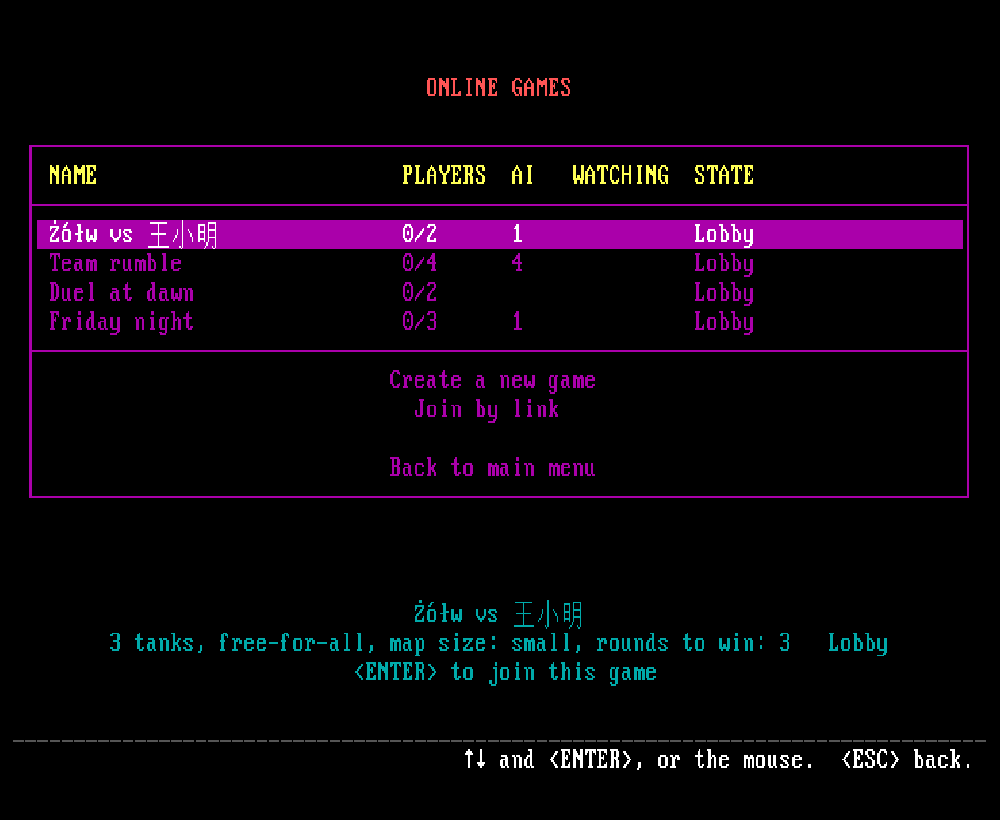
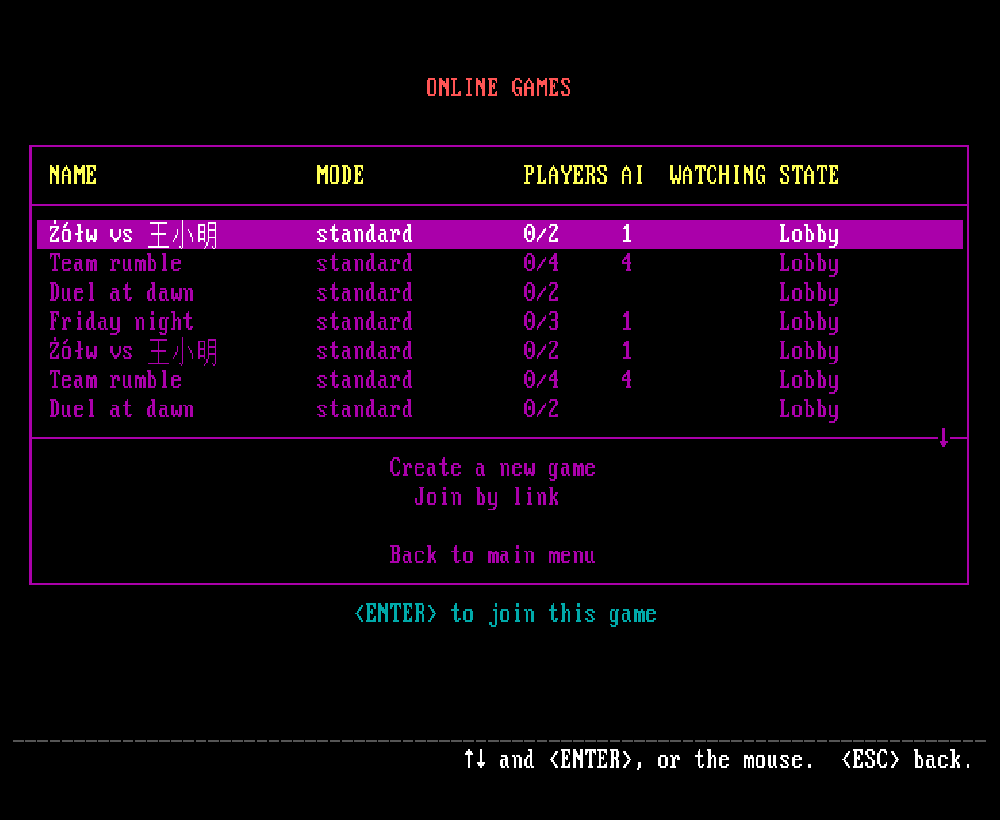
3.0.0: game modes
Eight game modes besides the standard game (gold rush, infection, survival,
king of the hill, shrinking world, capture the flag, base siege, deathmatch),
each with its own goal setting instead of rounds to win where it fits, its own
AI tactics, objects, score tags and statistics; the no-base-repairs modifier;
Skirmish (was vs computer); a MODE column and right-click watching in the games
list; Say: inside the chat box; one host at a time. See CHANGELOG.md.

diff --git a/CHANGELOG.md b/CHANGELOG.md
@@ -3,19 +3,39 @@
 All notable changes to Tunneler Online. Versions follow [semantic versioning](https://semver.org/);
 a release is made by pushing a version tag (see CONTRIBUTING.md).
 
-## Unreleased
+## 3.0.0
 
-- **Game modes** (vs computer and online, a new "Mode" setting): gold rush, infection, survival, king of
-  the hill, shrinking world, capture the flag, base siege and deathmatch - besides the standard game.
-  Each has its own rules, objects on the map (gold, flags, the zone, the safe area's edge), a score tag
-  beside the instrument panel, its score in the spectators' map table, its own computer-player tactics,
-  and an explanation on the Instructions page.
+**Game modes** - a new "Mode" setting (skirmish and online) besides the standard game, and a different
+game list / lobby; a 3.0 server and older pages or desktop apps can't play together.
+
+- **Eight game modes**, each with its own rules, objects on the map, a score tag beside the instrument
+  panel, its score in the spectators' map table and the statistics, its own computer-player tactics and an
+  explanation on the Instructions page:
+  - **Gold rush** - dig up gold and bring it to your base; a hit makes you drop one.
+  - **Infection** - tanks destroyed by the infected join them; the healthy win if one survives the time.
+  - **Survival** - all players together against waves of AI tanks, tougher with every wave.
+  - **King of the hill** - hold the zone in the middle of the map (destroyed tanks come back).
+  - **Shrinking world** - the safe area (an ellipse) closes in; outside it your shield melts.
+  - **Capture the flag** - bring the enemy's flag home while yours is at home.
+  - **Base siege** - shoot the enemy bases down; the last side with a base wins.
+  - **Deathmatch** - destroyed tanks come back at their base; kills decide.
+- Every mode but standard and shrinking world is **one round with its own goal** instead of "Rounds to
+  win": gold to win, survive for N minutes, waves to win, seconds to win, captures to win, base strength,
+  kills to win. A round nobody wins is replayed.
 - A **modifier** for any mode: no base repairs.
-- Each mode (but standard and shrinking world) is one round with its own goal setting instead of "Rounds
-  to win": gold to win, survive for N minutes, waves to win, seconds to win, captures to win, base
-  strength, kills to win.
-- Online, "List publicly" and "Allow spectators" are chosen only when a game is created.
-- The vs computer screen no longer overlaps when the settings box is long.
+- **Vs computer is now Skirmish** (`/skirmish`; `/vs-computer` still works): the online lobby's layout
+  without the chat (slots without color names and the settings side by side, Start / Back below them),
+  play any color; Friendly fire always listed, grayed out without teams.
+- The statistics show why a tank won: the mode's own total per tank (gold, captures, kills...) and each
+  round's winning score in the rounds list; no "The winner is" line in the extended game - the winners blink.
+- After death the views you chose stay (everyone: every view, yours with DESTROYED).
+- The **list of games**: a MODE column, the games you host first (your private ones too), "Join by link",
+  the info line only says whether you host it and the keys; a right click watches a game.
+- The **game lobby**: "Say:" inside the chat box, "Kick a player" right below "Watch instead" (grayed with
+  nobody to kick), "List publicly" / "Allow spectators" only when a game is created, one host at a time
+  (a second tab with the host key is a player); in infection / survival the team column is grayed.
+- Menus: a right click on a switch steps it back; centred items line up.
+- Survival: a wave tank no longer gets stuck in a base pushing toward a player outside it.
 
 ## 2.0.0
 

diff --git a/CLAUDE.md b/CLAUDE.md
@@ -183,7 +183,7 @@ project dependency; install playwright-core in a scratch dir when needed).
 
 ## Client pages
 
-- `index.html` + `home.js` - main menu (Split screen, Vs computer, Online game, Information, Language:
+- `index.html` + `home.js` - main menu (Split screen, Skirmish (was "Vs computer"; /skirmish, old /vs-computer works), Online game, Information, Language:
   ...). Split screen (`/#split`): Start a new game / Map size / Rounds to win / Instructions / Back
   (localStorage `tunneler.split.size`, `tunneler.split.win`; default medium, 3 = the original). Vs
   computer (`/#cpu`, DESIGN-8P 20, 26): like the online game lobby without the chat, centred - the 8
@@ -224,16 +224,16 @@ project dependency; install playwright-core in a scratch dir when needed).
   table lists every team (`teamLines`, wrapped to fit). `setScope(own, "self"|"team"|"everyone")` (a
   player, DESIGN-8P 23): the grid of their own view first, then teammates' / everybody else's in slot
   order (classic: own half / the full split screen); `setScope(null)` = the modes above.
-- `lobby.html` + `lobby.js` - the list of public games (columns NAME, PLAYERS "2/4" = seated / seated +
+- `lobby.html` + `lobby.js` - the list of public games (columns NAME, MODE, PLAYERS "2/4" = seated / seated +
   free open seats - during a match: connected / its human tanks (roomInfo `players` / `places`) -, AI
   (`bots`), WATCHING (`spec`; 0 = blank), STATE (`COLS`); games scroll; separator + "Create a new game" +
   "Join by link" + a blank row + "Back to main menu" fixed below; Join by link: one input for a
   pasted invite link / a game's id (`Links.parse` in endpoint.js -> {origin, room, role}): this server's
   game -> its page, another server's -> that site (the desktop app: `Endpoint.set(origin)` first);
-  the games this browser hosts (`tunneler.host.<id>` keys, `hostIds()`) come first with "you host" in
-  the state column (`lobby.host`, info `lobby.host.i`), its private ones fetched one by one
+  the games this browser hosts (`tunneler.host.<id>` keys, `hostIds()`) come first (no mark in the row;
+  the info line says so, `lobby.host.i` - the info is only that and the keys), its private ones fetched one by one
   (`/api/rooms/<id>`, at most 8; a 404 drops the key); Enter joins - a free seat if there is one, else
-  watching -, Right watches), the create screen (Name max 26, List publicly, Allow spectators, Create the
+  watching -, Right or a right click watches), the create screen (Name max 26, List publicly, Allow spectators, Create the
   game, Back: POST with the host's last settings from `tunneler.online`, then straight to the game's
   lobby; the POST response's `hostKey` is stored as `tunneler.host.<id>`). Online play needs a name:
   `DosUI.prototype.askName` ("YOUR NAME", `DosUI.playerName()` / `setPlayerName`, localStorage
